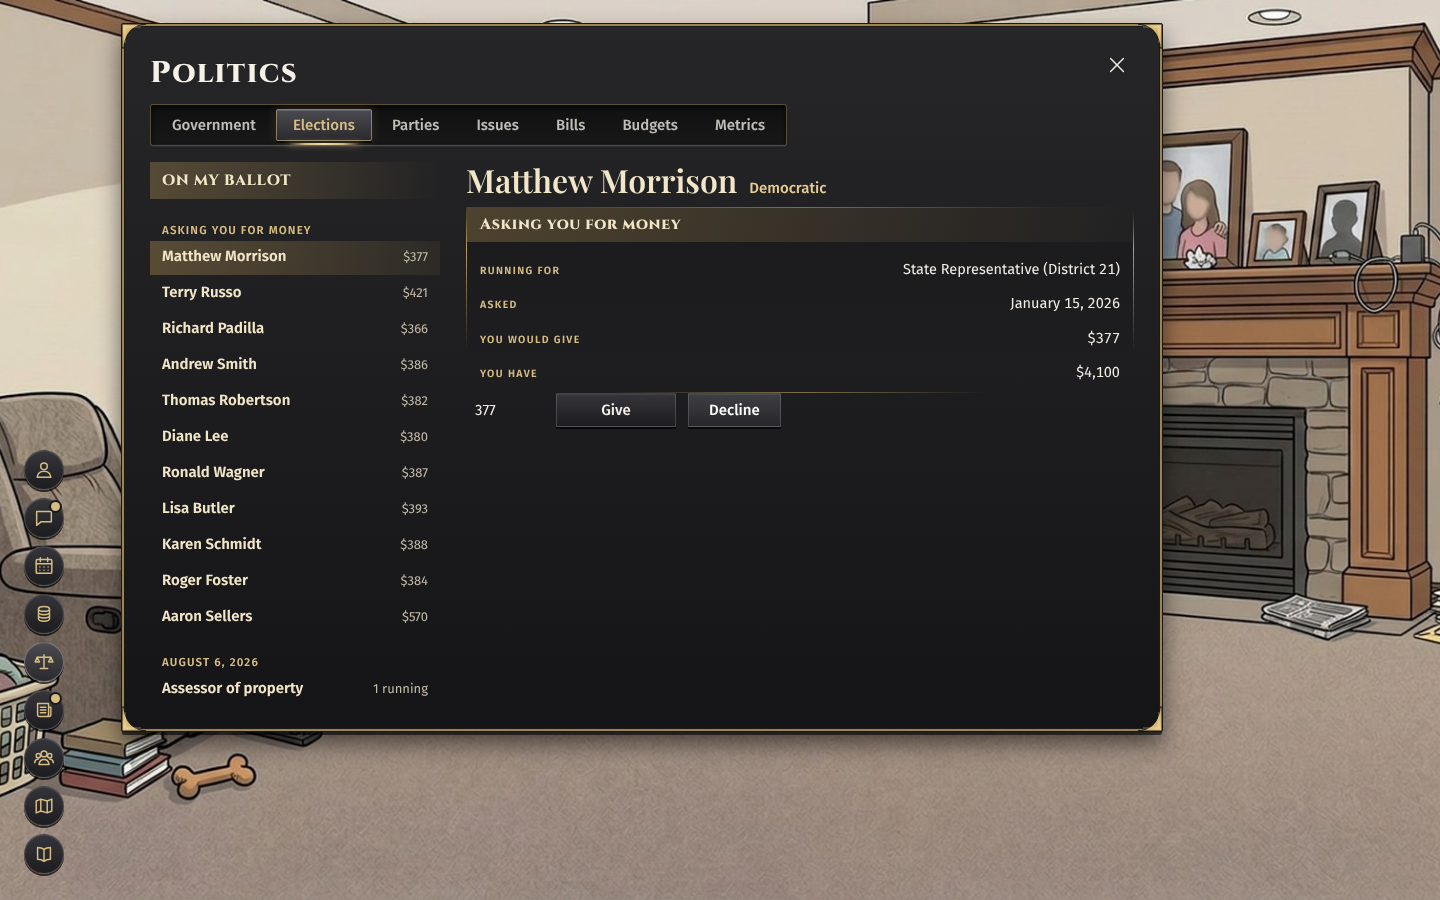
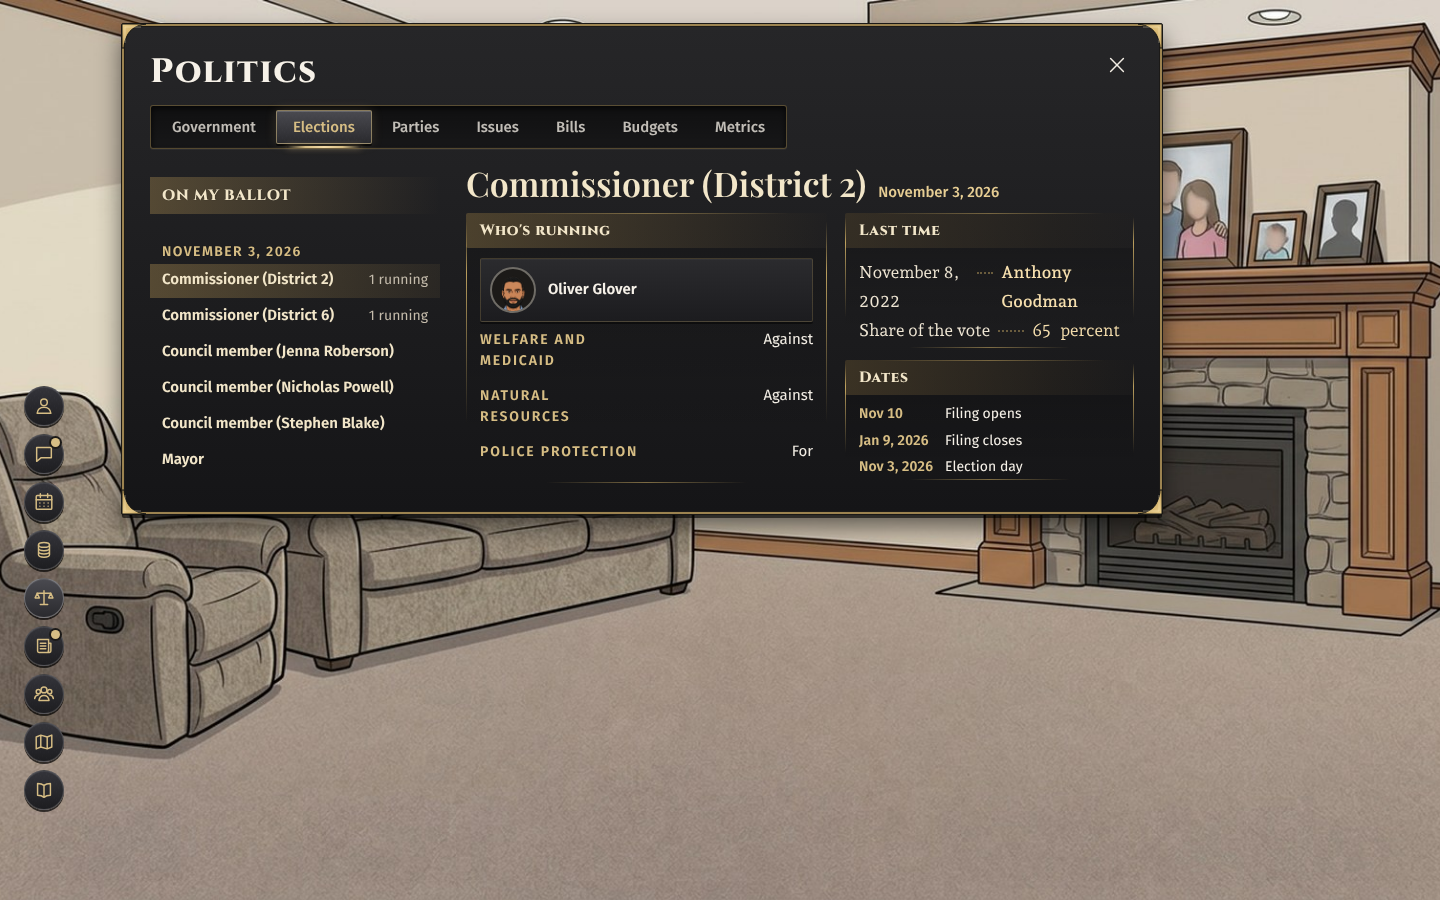
Campaign ask: screenshots retaken after merging main; stopgap marker line updated
Claude-Session: https://claude.ai/code/session_01S4WSHsnvuxXM4YiPxR8XyL

diff --git a/docs/play-first/shots/play-campaign-ask-reaches-player/README.md b/docs/play-first/shots/play-campaign-ask-reaches-player/README.md
@@ -2,7 +2,7 @@
 
 All at 1440 by 900, taken by `src/bench/campaign-ask.browser.mjs` on the bench at this branch's head, in a life made in the creator with a 1980 birthday (a working adult with savings).
 
-Philadelphia, Tennessee (drawn), seed `95faab28-2352-4e6e-9e46-292c8d22b7ed` (place key 4757900):
+Graymoor-Devondale, Kentucky (drawn), seed `d692bee4-d22e-44d1-9cce-dbc2b40ee7ef` (retaken after main was merged in):
 
 - `drawn/request.png`: Politics, Elections, "Asking you for money": the candidate, the race, when they asked, the sum the player would give, the cash they hold, and the amount with Give and Decline.
 - `drawn/after-gift.png`: after giving part of it; the request is gone and the player's cash dropped by exactly the gift.
